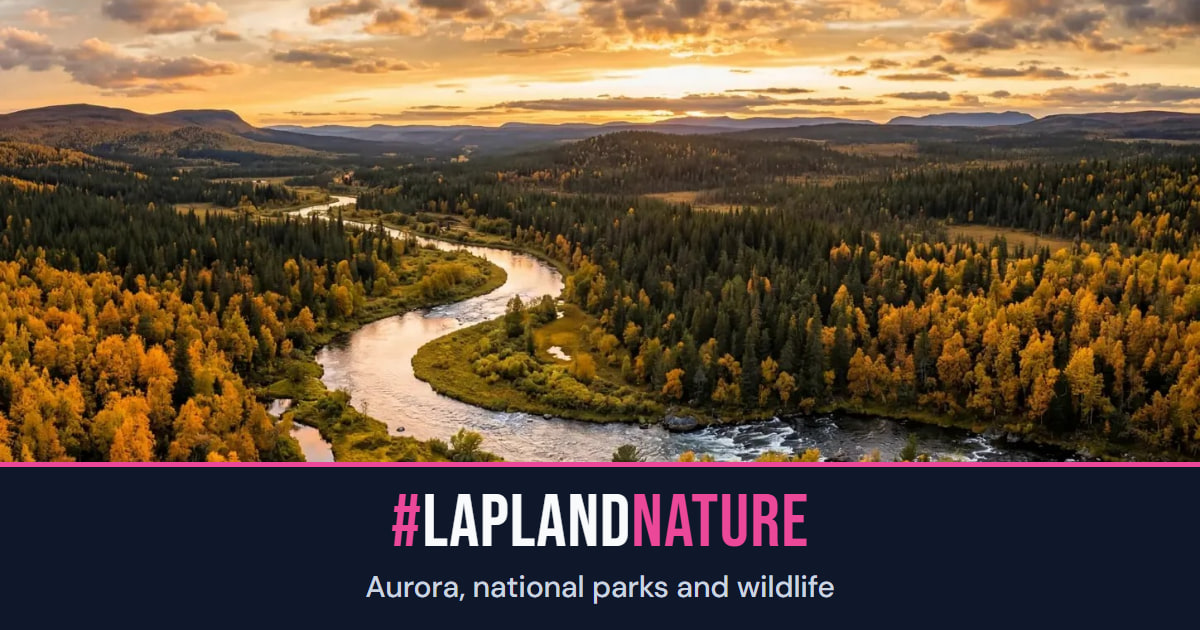
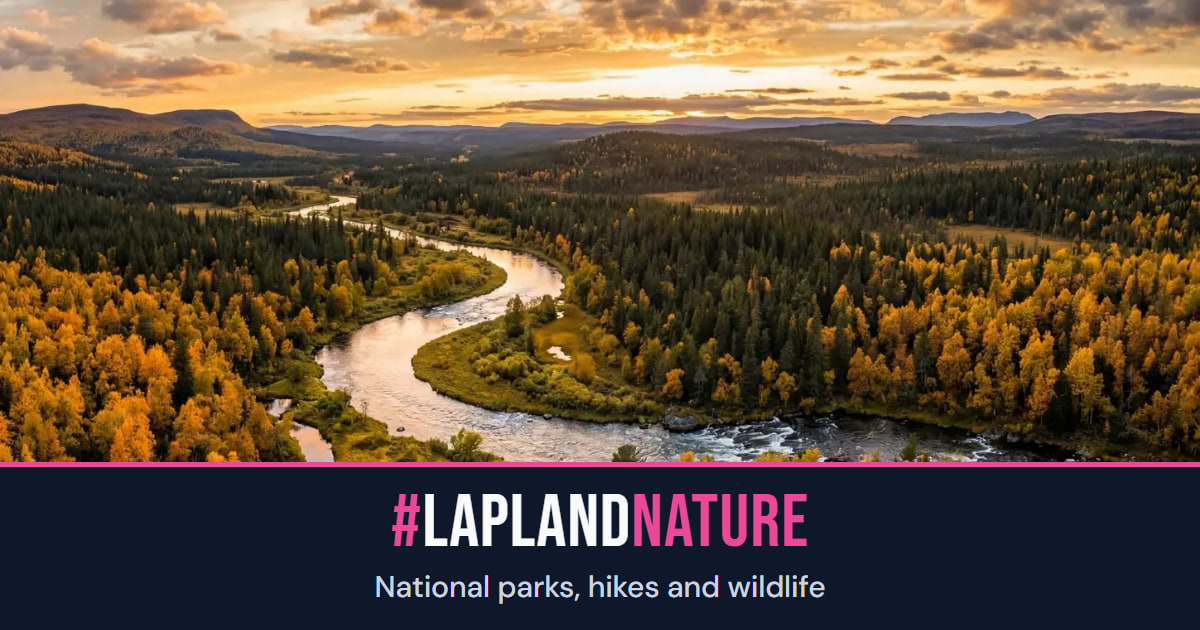
Jakokortti: kauden oma kuva JA kauden oma teksti
Vesa 21.9.2026: "eiko naihinkin pida olla saanto etta kesalla jaetaan
kesakuva ja teksti liittyy kesaan? nyt ouhut kesakuvassa aurorasta?"

Kortin kuva vaihtui kauden mukaan jo, teksti ei. Rekisterissa on nyt
taglineKesa ja taglineTalvi, ja kortit on tehty uudelleen molemmille
kausille. OG_VERSION nostettu, jotta uusi kortti nakyy jaossa heti eika
vasta kun some-palvelun valimuisti vanhenee.

Changed region(s): [[0.3083, 0.9048, 0.7092, 0.9651]]

diff --git a/index.html b/index.html
@@ -221,15 +221,15 @@
       });
     </script>
       <!-- Open Graph image (1200×630 JPEG) -->
-    <meta property="og:image" content="https://laplandnature.com/og.jpg?v=20260905" />
-    <meta property="og:image:secure_url" content="https://laplandnature.com/og.jpg?v=20260905" />
+    <meta property="og:image" content="https://laplandnature.com/og.jpg?v=20260921" />
+    <meta property="og:image:secure_url" content="https://laplandnature.com/og.jpg?v=20260921" />
     <meta property="og:image:type" content="image/jpeg" />
     <meta property="og:image:width" content="1200" />
     <meta property="og:image:height" content="630" />
     <meta property="og:image:alt" content="Snow-covered arctic wilderness and fells in Finnish Lapland. #LAPLANDNATURE" />
     <!-- Twitter card -->
     <meta name="twitter:card" content="summary_large_image" />
-    <meta name="twitter:image" content="https://laplandnature.com/og.jpg?v=20260905" />
+    <meta name="twitter:image" content="https://laplandnature.com/og.jpg?v=20260921" />
     <meta name="twitter:image:alt" content="Snow-covered arctic wilderness and fells in Finnish Lapland. #LAPLANDNATURE" />
       <!-- Favicon stack (LV ecosystem unified design) -->
     <link rel="icon" href="/favicon.svg?v=20260626b" type="image/svg+xml" />
